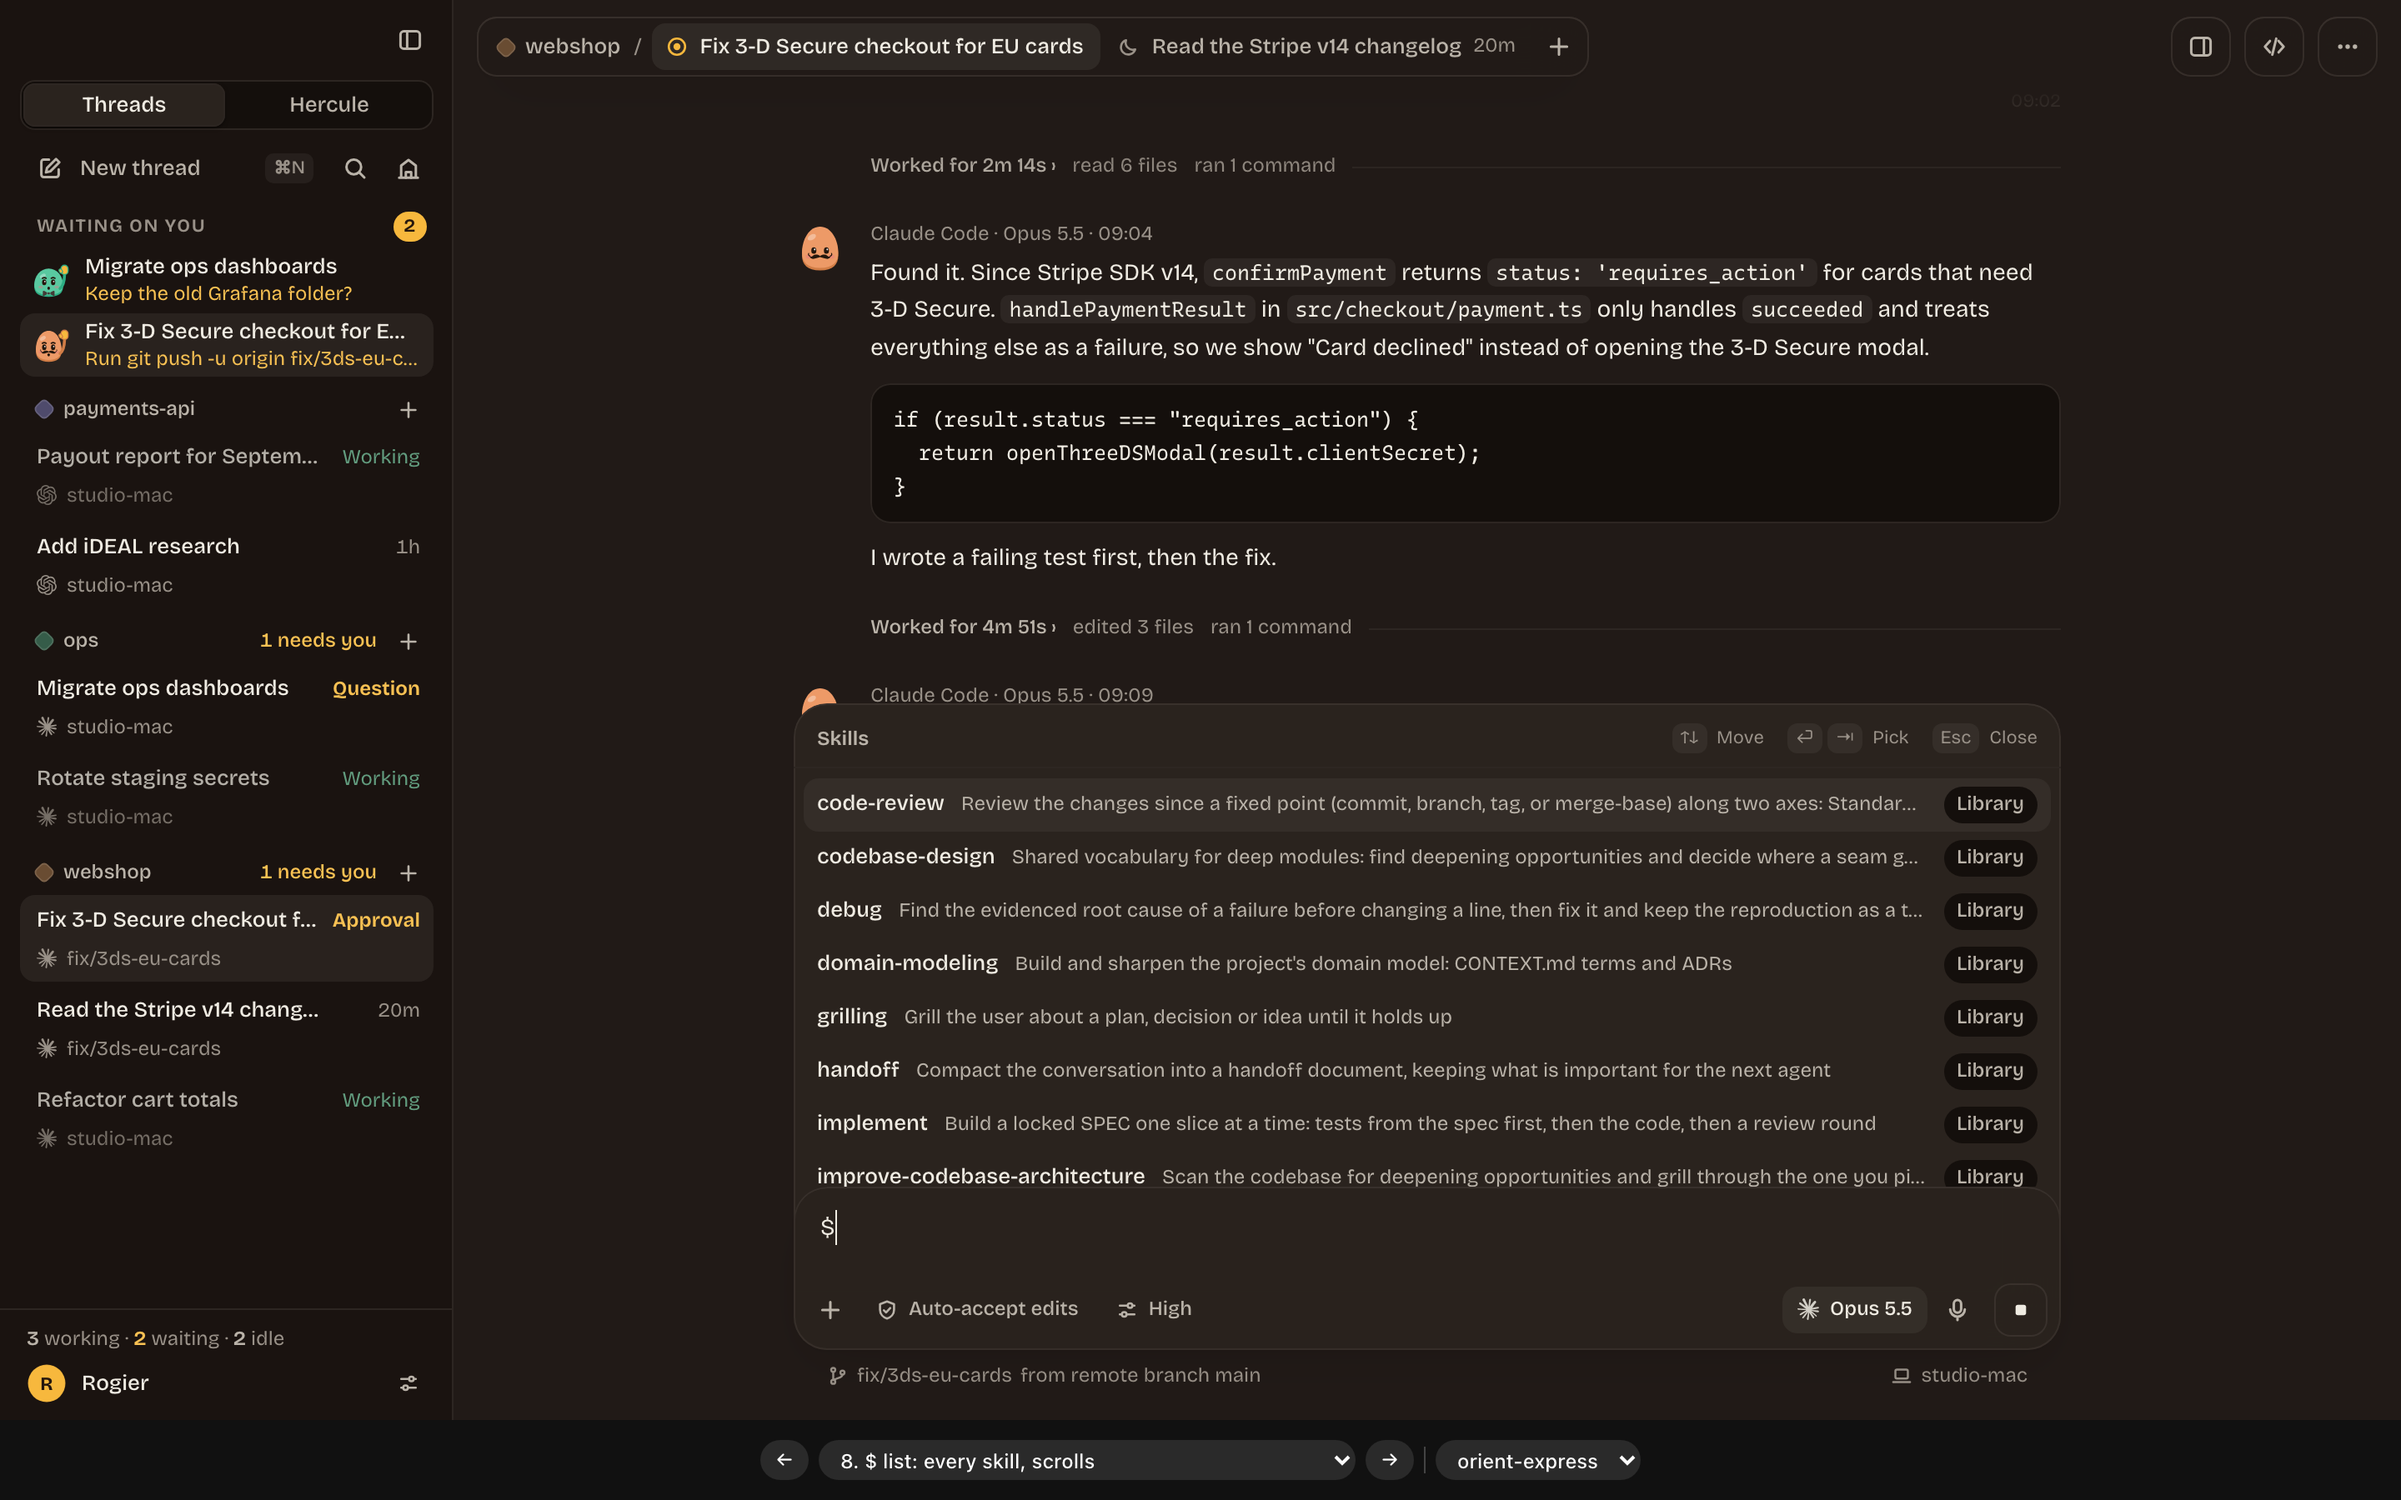
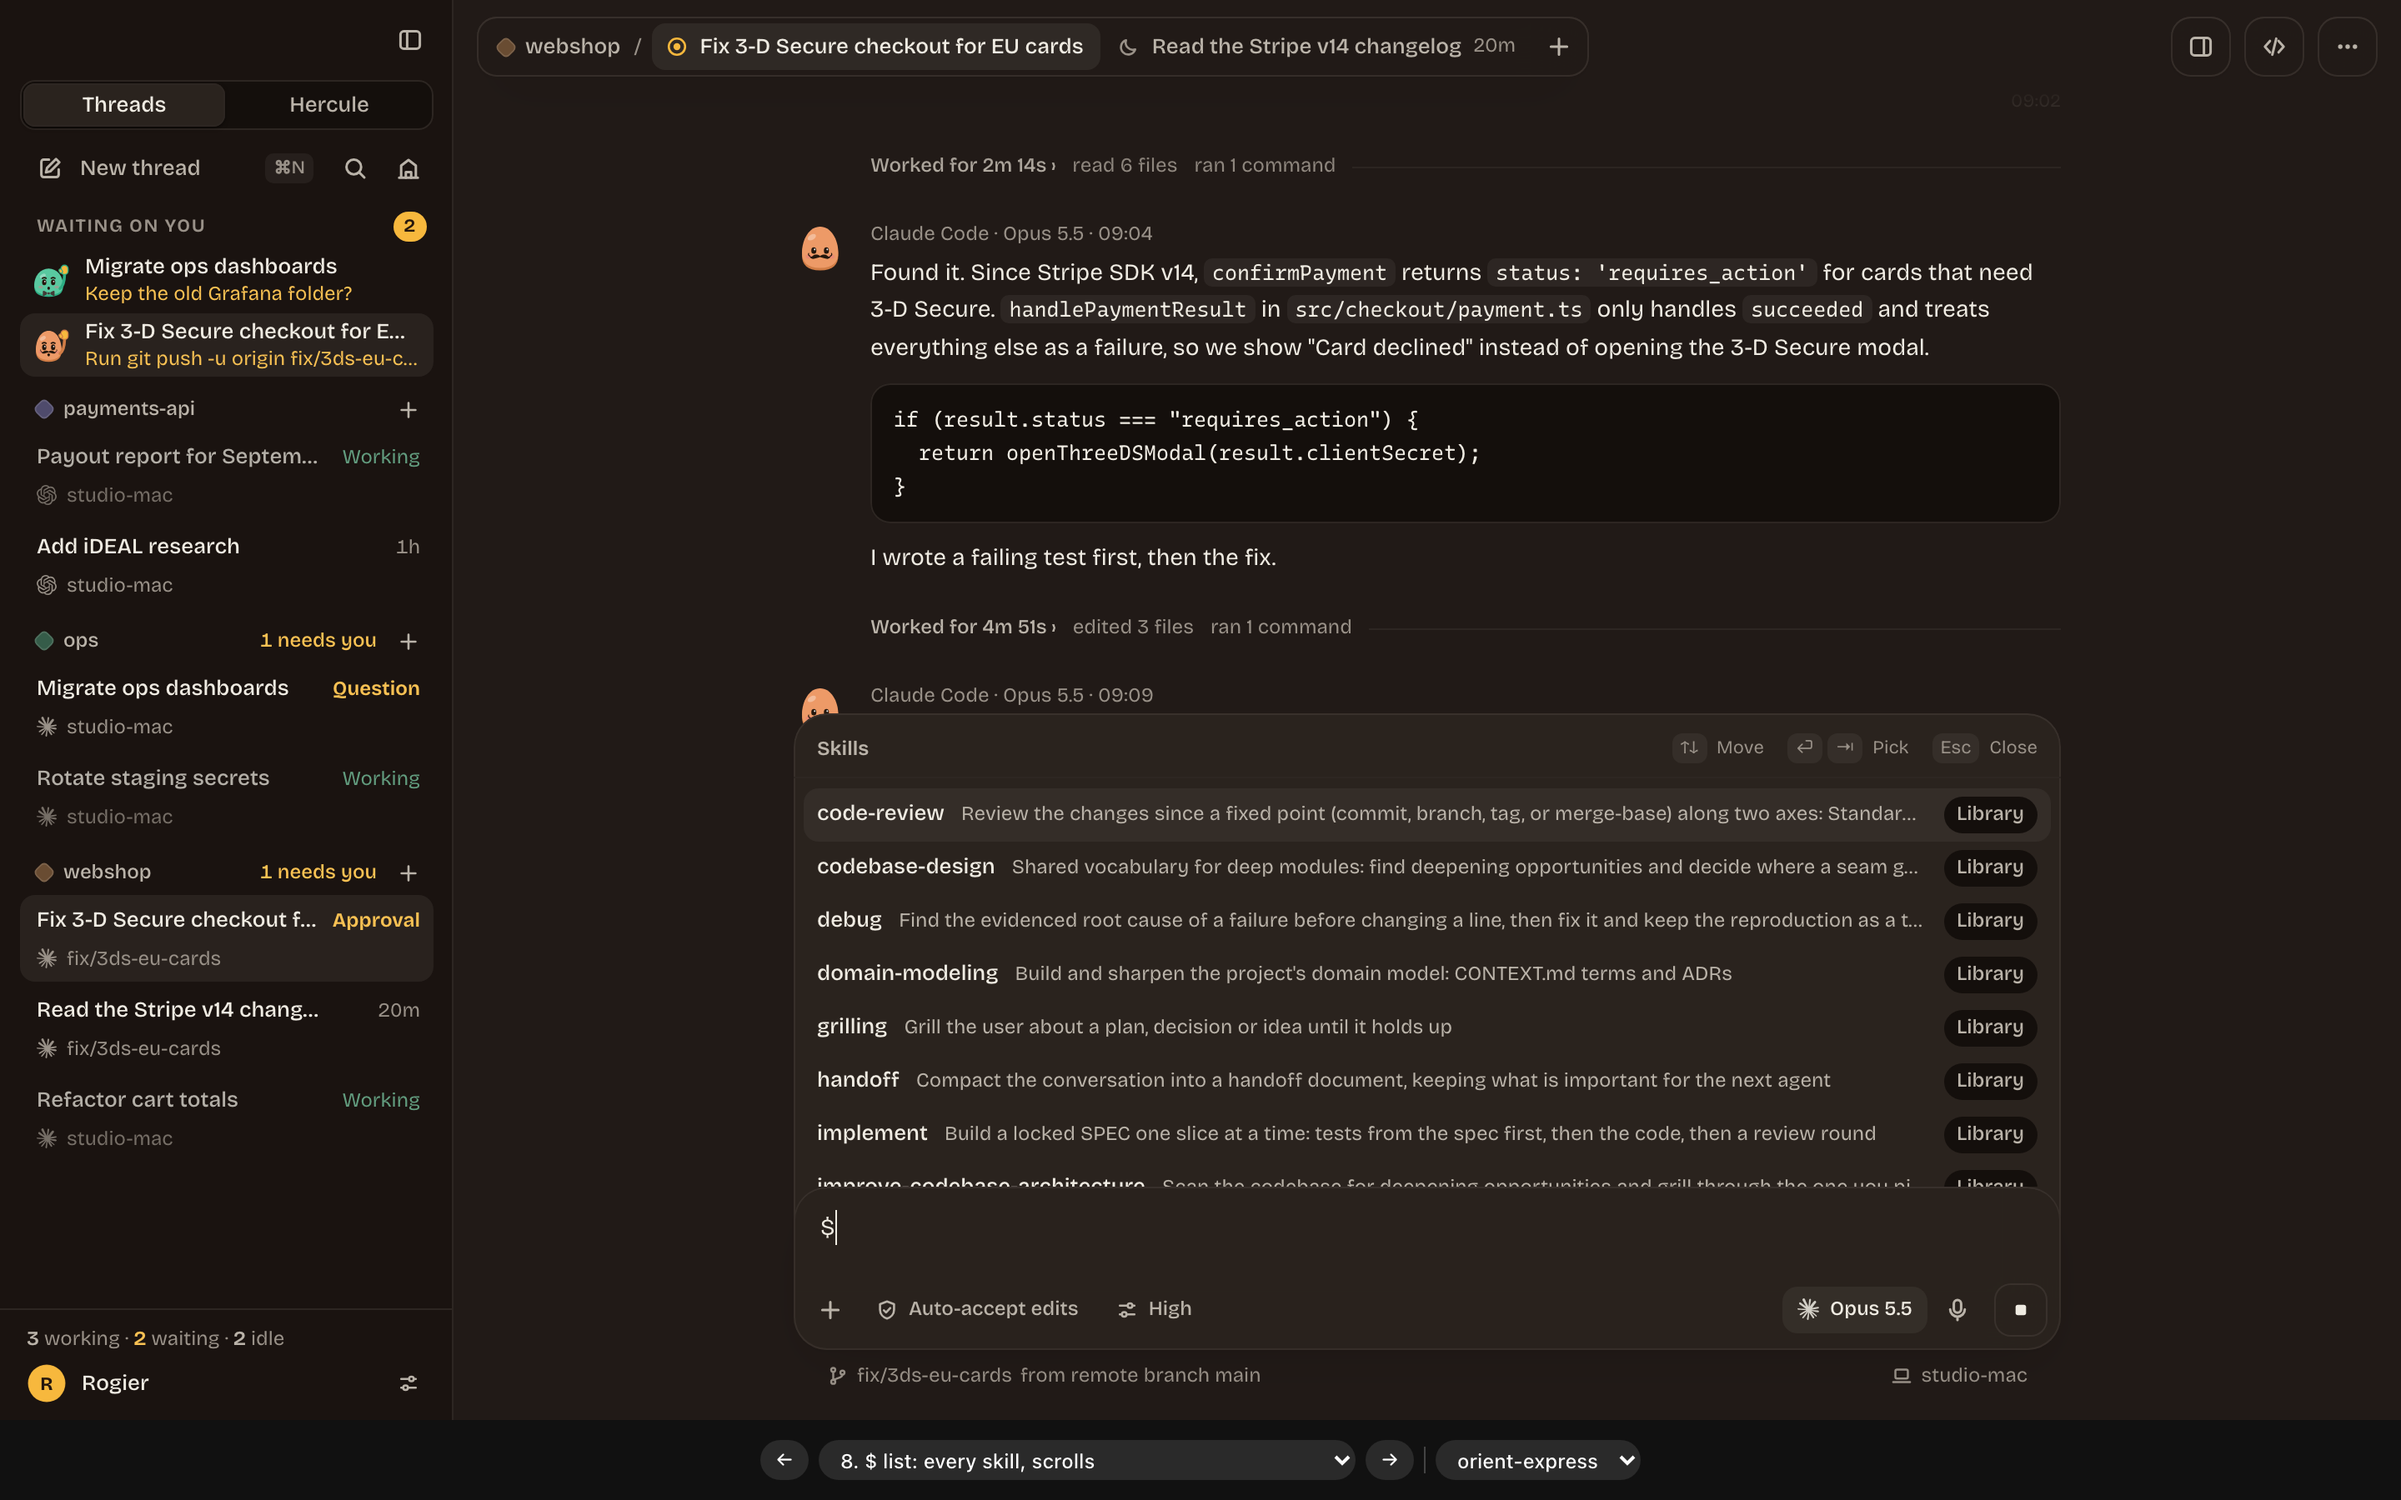
prototype(desktop): an overflowing list ends mid-row (#766)
The rows' maximum height is now the top padding, the section heads and
seven and a half rows, so a list that overflows ends mid-row whether or
not it has sections. Before, the / list with sections cut its last row
after a third, under the card's corner. Re-shot 08-dollar-long and
10-slash-kinds in both themes.

Throwaway prototype, not for main.

Changed region(s): [[0.3438, 0.4978, 0.8438, 0.8089], [0.3438, 0.4667, 0.375, 0.4978]]

diff --git a/apps/desktop/src/renderer/specimens/composer-skills-prototype/skill-list.css b/apps/desktop/src/renderer/specimens/composer-skills-prototype/skill-list.css
@@ -123,15 +123,26 @@
 
 /* ---------- The rows ---------- */
 
-/* The scrolling part. It shows seven rows and a half, so the half row
-   under the seventh says that more follows: the app draws overlay scroll
-   bars (settings.css), which show nothing while at rest. The hairline above
+/* The scrolling part. A list that overflows always ends in the middle of a
+   row, so the cut row says that more follows: the app draws overlay scroll
+   bars (settings.css), which show nothing while at rest. A list that is not
+   at its maximum height shows every row, so it ends on its last row.
+   The maximum height is the 6px of padding above the first row, the section
+   heads, and seven and a half rows. A section head is 28px (10px above its
+   16px line and 2px below), except the first, which has no 10px above it, so
+   the heads are `28px * sections - 10px`, or nothing without sections. The
+   TSX sets `--composer-skill-list-sections` to the number of sections. A cut
+   that is not in a head or a row's gap is in the middle of a row only when
+   the heads above it are all counted, as they are here. The hairline above
    is `.pop-sec`'s (`--line-soft`), which also gives a row that scrolls under
    the head a clean edge to be cut by. The padding is `.pop.popover-menu`'s
    6px, which has no token, and `scroll-padding-block` keeps a row that
    scrolls into view off the edge by the same 6px. */
 .composer-skill-list-rows {
-  max-height: calc(7.5 * var(--composer-skill-list-row) + 2 * 6px);
+  max-height: calc(
+    6px + 7.5 * var(--composer-skill-list-row) + var(--composer-skill-list-sections, 0) * 28px -
+      min(var(--composer-skill-list-sections, 0), 1) * 10px
+  );
   overflow-y: auto;
   padding: 6px;
   border-top: 1px solid var(--line-soft);

diff --git a/apps/desktop/src/renderer/specimens/composer-skills-prototype/skill-list.tsx b/apps/desktop/src/renderer/specimens/composer-skills-prototype/skill-list.tsx
@@ -14,6 +14,7 @@ import {
   type Dispatch,
   type JSX,
   type ReactNode,
+  type CSSProperties,
   type RefObject,
   type SetStateAction,
 } from "react";
@@ -192,6 +193,8 @@ function DockedList({
   const { listId, fieldRef, active, setActive, closed, close } = control;
   const rowsRef = useRef<HTMLDivElement>(null);
   const rowCount = rows.length;
+  const groups = groupBySection(rows);
+  const sectionCount = groups.filter((group) => group.section !== null).length;
 
   useEffect(() => {
     const field = fieldRef.current;
@@ -248,6 +251,8 @@ function DockedList({
         role="listbox"
         id={listId}
         aria-label={title}
+        // The stylesheet adds the height of the section heads to the list's maximum height.
+        style={{ "--composer-skill-list-sections": sectionCount } as CSSProperties}
       >
         {rowCount === 0 ? (
           <div className="composer-skill-list-empty">
@@ -255,7 +260,7 @@ function DockedList({
             <span>{emptyHint}</span>
           </div>
         ) : (
-          groupBySection(rows).map((group) => (
+          groups.map((group) => (
             <div
               key={group.section ?? ""}
               role={group.section === null ? "presentation" : "group"}
